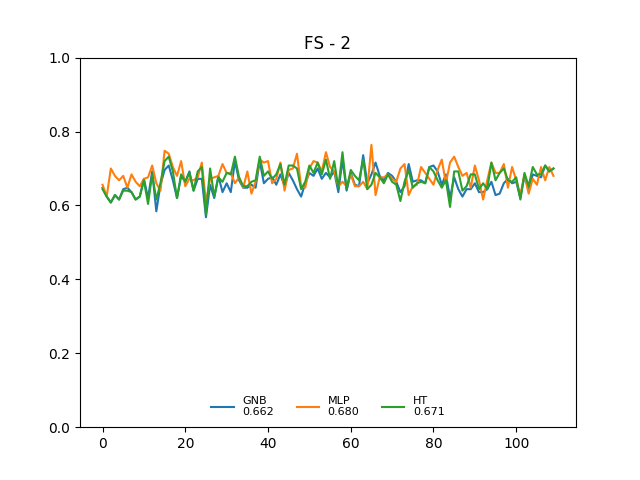
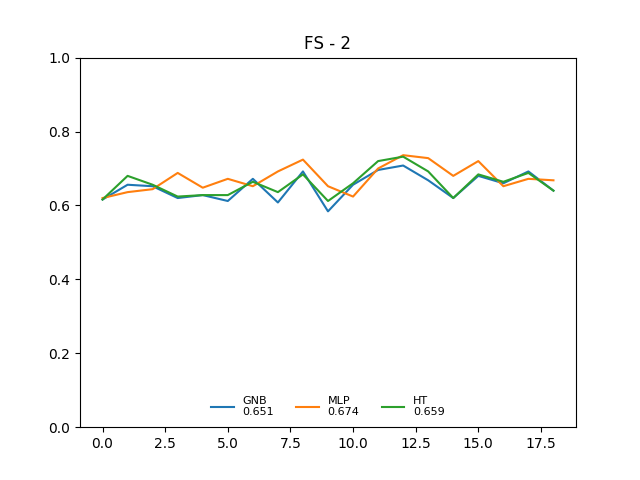
Po co to wszystko?

diff --git a/stream-experiment.py b/stream-experiment.py
@@ -21,8 +21,15 @@ methods = ["GNB", "MLP", "HT"]
 
 class StreamFromFile:
     def __init__(
-        self, filename, chunk_size=250, n_components=4, n_chunks=None, method=None,
+        self,
+        filename,
+        chunk_size=250,
+        n_components=4,
+        n_chunks=None,
+        method=None,
+        handicap=1000,
     ):
+        self.handicap = handicap
         self.filename = filename
         self.data = np.load("data/cv.npz")
         self.X, self.y = self.data["X"], self.data["y"]
@@ -30,28 +37,28 @@ class StreamFromFile:
         self.n_components = n_components
 
         if method == "PCA":
-            self.pca = PCA(self.n_components).fit(self.X[:1000,:])
+            self.pca = PCA(self.n_components).fit(self.X[: self.handicap, :])
             self.X = self.pca.transform(self.X)
-
         elif method == "CV":
-            wordsum = np.sum(self.X[:1000,:], axis=0)
+            wordsum = np.sum(self.X[: self.handicap, :], axis=0)
             feature_sort = np.argsort(-wordsum)
 
             self.X = self.X[:, feature_sort]
             self.X = self.X[:, :n_components]
         elif method == "FS":
             self.fs = SelectKBest(score_func=chi2, k=self.n_components)
-            self.fs.fit(self.X[:1000,:], self.y[:1000])
+            self.fs.fit(self.X[: self.handicap, :], self.y[: self.handicap])
             self.X = self.fs.transform(self.X)
         else:
             print("Provide a method!")
             exit()
 
-
         self.chunk_size = chunk_size
         self.chunk_id = -1
         self.chunk = None
         self.classes_ = np.unique(self.y)
+        self.X = self.X[self.handicap :]
+        self.y = self.y[self.handicap :]
         if n_chunks is not None:
             self.n_chunks = n_chunks
         else:
@@ -157,7 +164,6 @@ for n_components in used_features:
     np.save("results/CV_%i" % (n_components), eval.scores)
     plt.clf()
 
-
     # Feature selection
     plt.figure()
     stream = StreamFromFile("data/cv.npz", n_components=n_components, method="FS")
@@ -194,7 +200,7 @@ for n_components in used_features:
     plt.title("FS - %i" % n_components)
 
     plt.savefig("figures/FS_%i" % (n_components))
-    plt.savefig("bas")
+    plt.savefig("baz")
 
     np.save("results/FS_%i" % (n_components), eval.scores)
     plt.clf()
